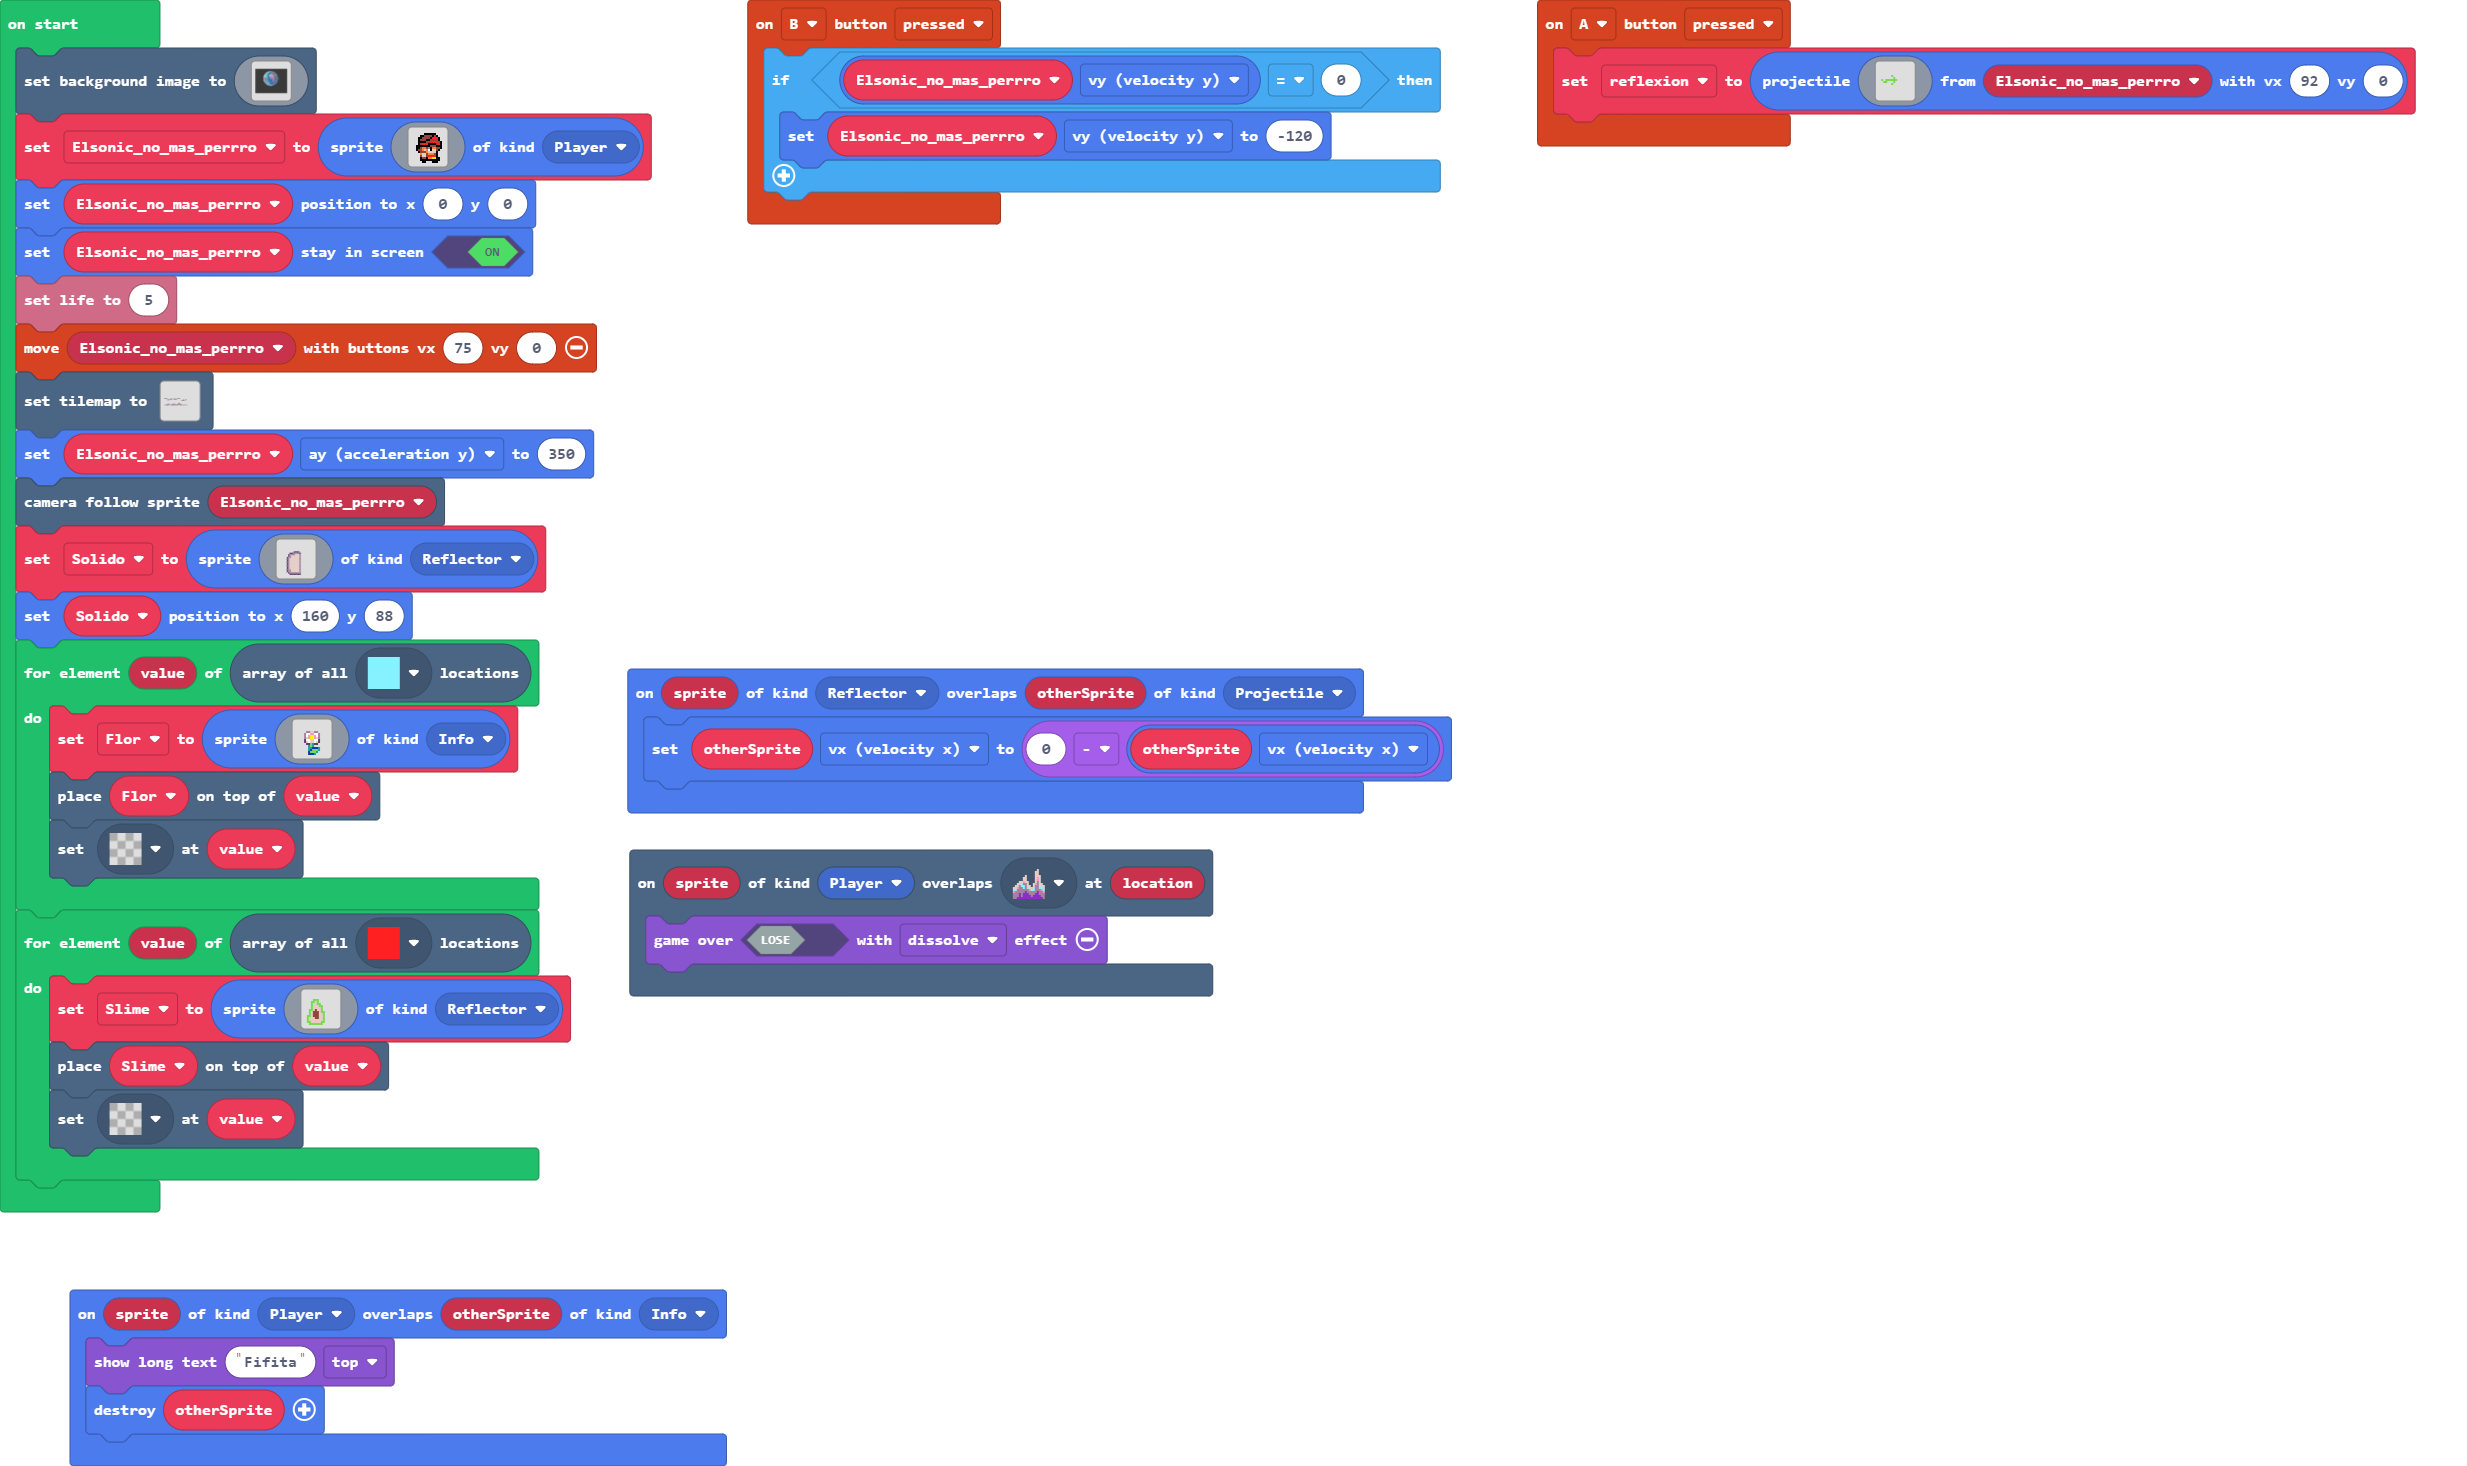
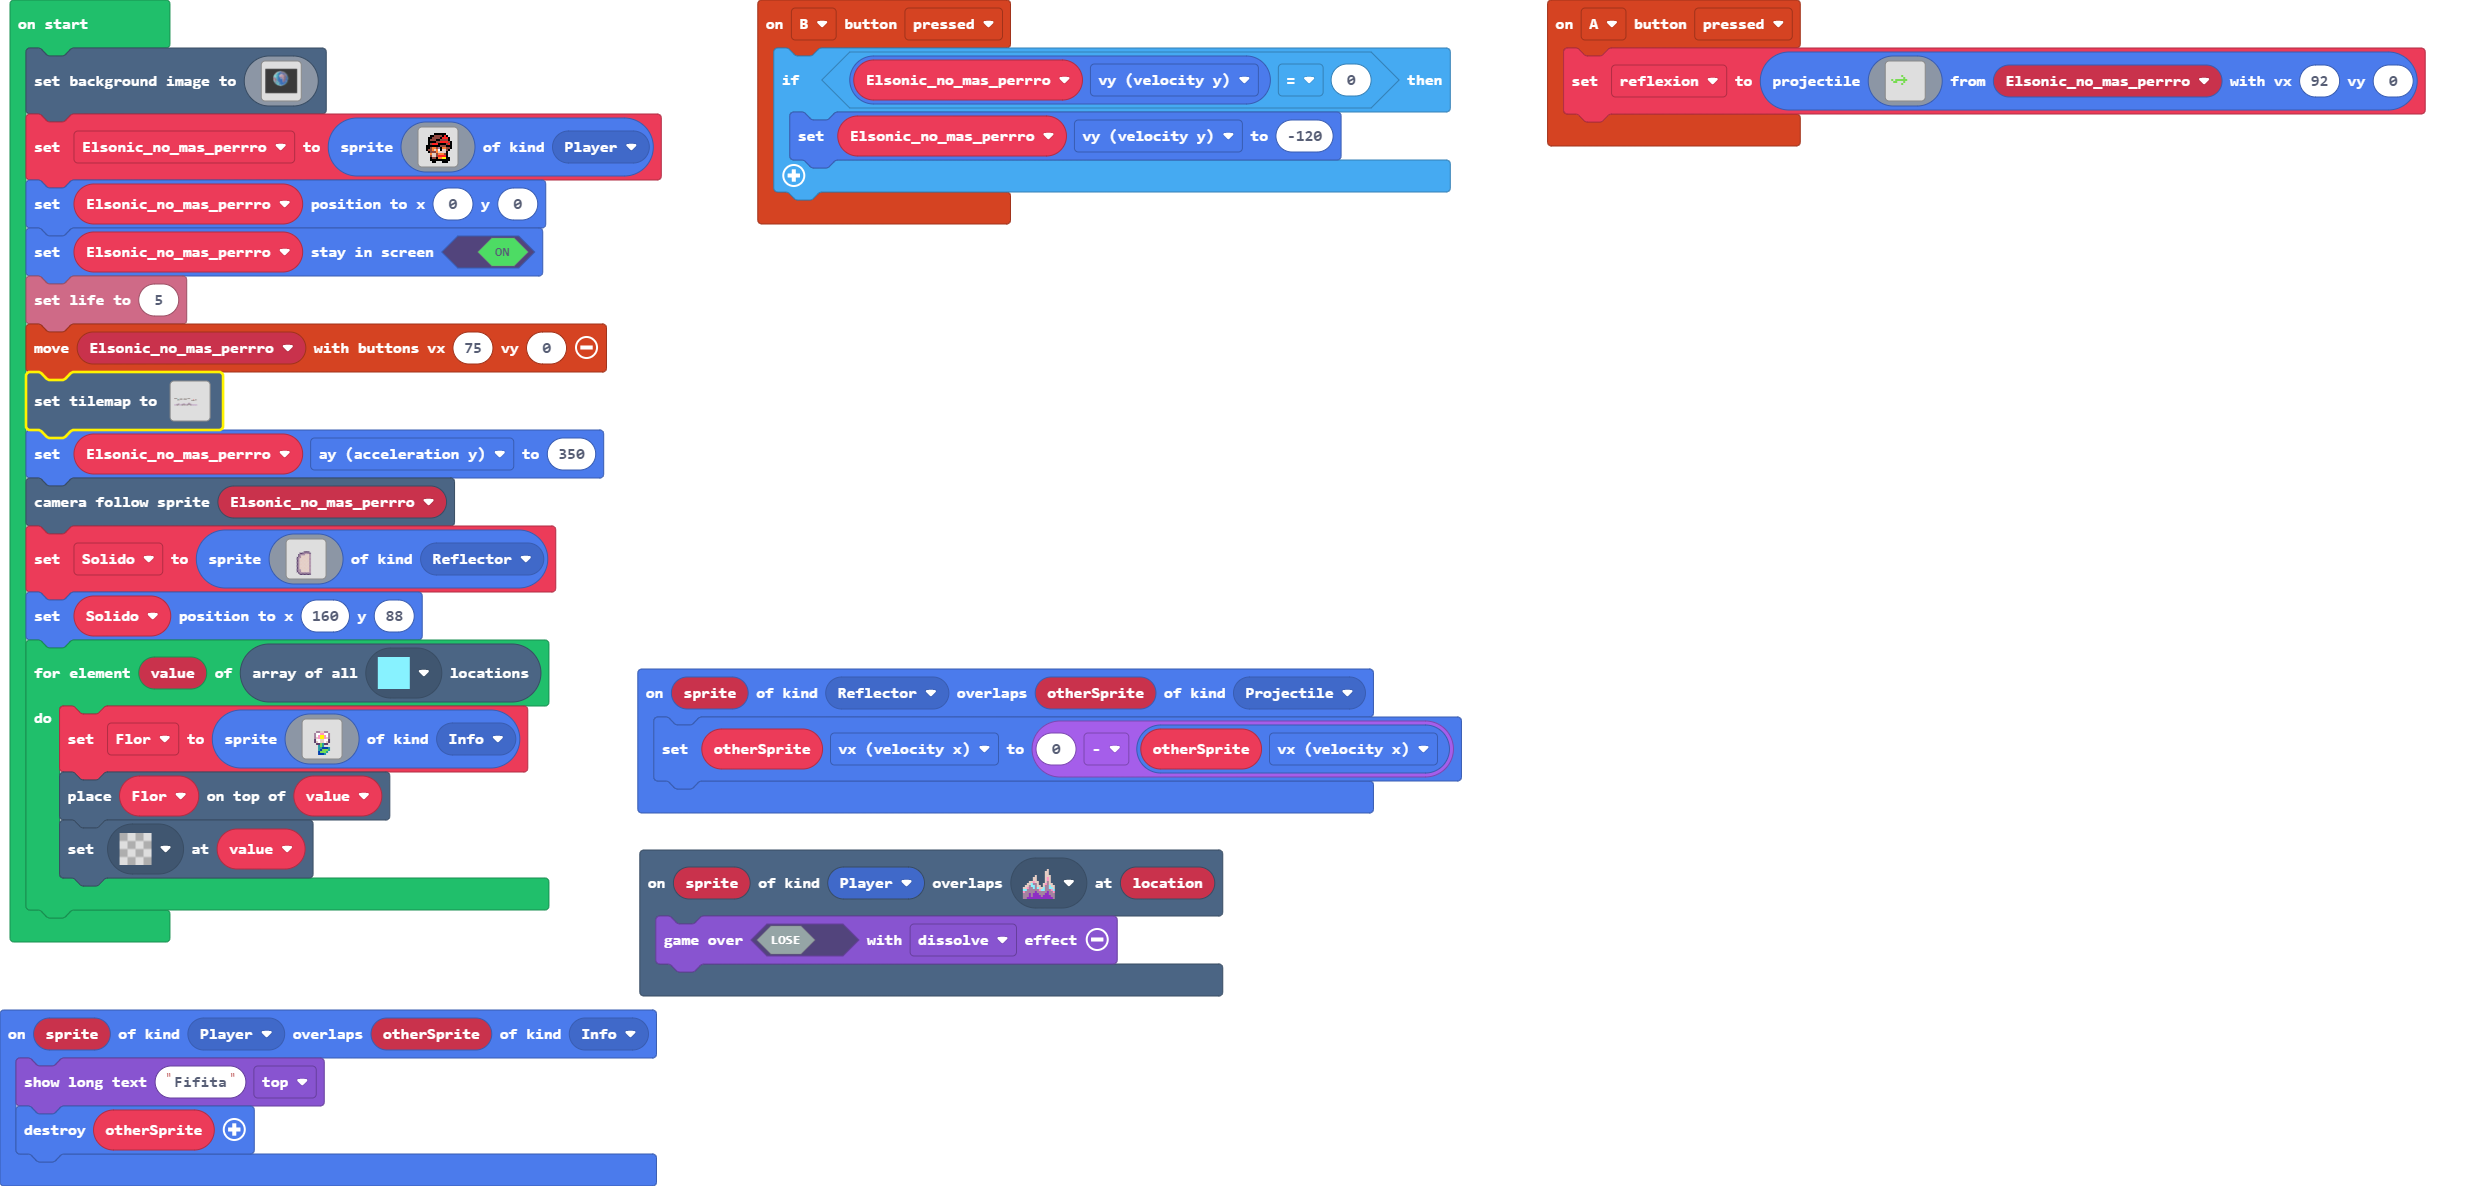
Update main.blocks, main.ts

diff --git a/main.ts b/main.ts
@@ -39,7 +39,6 @@ sprites.onOverlap(SpriteKind.Player, SpriteKind.Info, function (sprite, otherSpr
     otherSprite.destroy()
 })
 let reflexion: Sprite = null
-let Slime: Sprite = null
 let Flor: Sprite = null
 let Elsonic_no_mas_perrro: Sprite = null
 scene.setBackgroundImage(img`
@@ -235,27 +234,5 @@ for (let value of tiles.getTilesByType(assets.tile`myTile3`)) {
         . . 8 8 8 6 . . 
         `, SpriteKind.Info)
     tiles.placeOnTile(Flor, value)
-    tiles.setTileAt(value, assets.tile`transparency16`)
-}
-for (let value of tiles.getTilesByType(assets.tile`myTile2`)) {
-    Slime = sprites.create(img`
-        . . . . . . . . . . . . . . . . 
-        . . . . . . . . . . . . . . . . 
-        . . . . . . . . . . . . . . . . 
-        . . . . 7 7 7 . . . . . . . . . 
-        . . . 7 7 d 7 . . . . . . . . . 
-        . . . 7 d d 7 7 . . . . . . . . 
-        . . . 7 d d d 7 7 . . . . . . . 
-        . . . 7 d d d d 7 . . . . . . . 
-        . . 7 7 d e d d 7 . . . . . . . 
-        . . 7 d e e e d 7 7 . . . . . . 
-        . . 7 d e e e d d 7 . . . . . . 
-        . 7 7 d e e e d d 7 . . . . . . 
-        . 7 d d d e e d d 7 . . . . . . 
-        . 7 d d d d d d d 7 . . . . . . 
-        . 7 7 d d d d d 7 7 . . . . . . 
-        . . 7 7 7 7 7 7 7 . . . . . . . 
-        `, SpriteKind.Reflector)
-    tiles.placeOnTile(Slime, value)
     tiles.setTileAt(value, assets.tile`transparency16`)
 }
